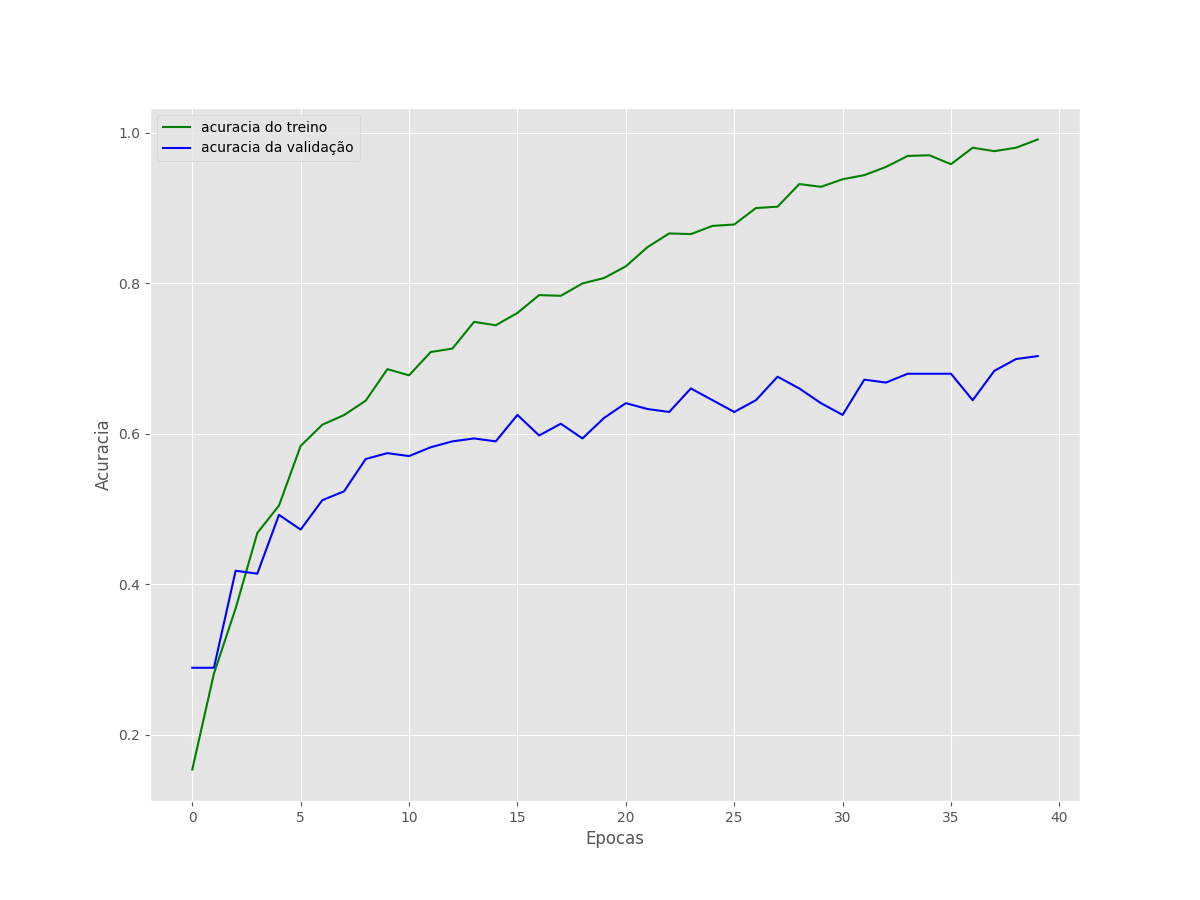
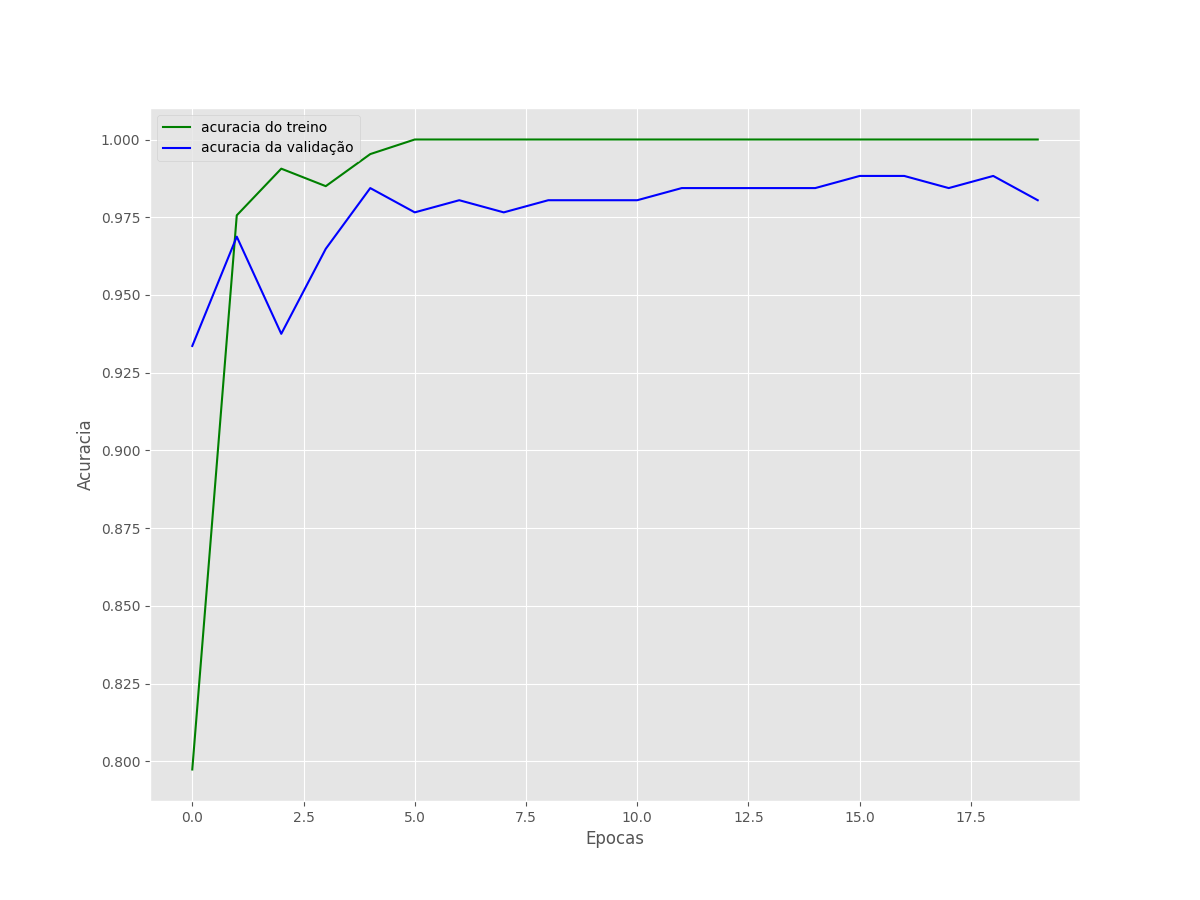
transfer learning

diff --git a/main.py b/main.py
@@ -5,24 +5,41 @@ import matplotlib
 
 # Constantes
 IMAGE_SHAPE = (224, 224)
+INPUT_SHAPE = (224, 224, 3)
 TRAINING_DATA_DIR = "input/training/training/"
 VALID_DATRA_DIR = "input/validation/validation/"
-EPOCHS = 32
+EPOCHS = 20
 BATCH_SIZE = 32
 
-def build_model(num_classes : int):
+def build_model(num_classes):
     model = tf.keras.Sequential([
-        tf.keras.layers.Conv2D(filters=8, kernel_size=(3, 3), activation='relu',
-                               input_shape=(224, 224, 3)),
-        tf.keras.layers.MaxPooling2D(pool_size=(2, 2), strides=2),
-        tf.keras.layers.Conv2D(filters=16, kernel_size=(3, 3), activation='relu'),
-        tf.keras.layers.MaxPooling2D(pool_size=(2, 2), strides=2),
-        tf.keras.layers.Conv2D(filters=32, kernel_size=(3, 3), activation="relu"),
-        tf.keras.layers.MaxPooling2D(pool_size=(2, 2), strides=2),
-        tf.keras.layers.Conv2D(filters=64, kernel_size=(3, 3), activation="relu"),
-        tf.keras.layers.MaxPooling2D(pool_size=(2, 2), strides=2),
-        tf.keras.layers.Flatten(),
-        tf.keras.layers.Dense(128, activation="relu"),
+    tf.keras.layers.Conv2D(filters=8, kernel_size=(3, 3), activation='relu', 
+                           input_shape=(224, 224, 3)),
+    tf.keras.layers.MaxPooling2D(pool_size=(2, 2), strides=2),
+    tf.keras.layers.Conv2D(filters=16, kernel_size=(3, 3), activation='relu'),
+    tf.keras.layers.MaxPooling2D(pool_size=(2, 2), strides=2),
+    tf.keras.layers.Conv2D(filters=32, kernel_size=(3, 3), activation='relu'),
+    tf.keras.layers.MaxPooling2D(pool_size=(2, 2), strides=2),
+    tf.keras.layers.Flatten(),
+    tf.keras.layers.Dense(64, activation='relu'),
+    tf.keras.layers.Dense(num_classes, activation='softmax')
+    ])
+    return model
+
+def build_model_tranfer(num_classes : int):
+    # Pegamos o modelo pré-pronto
+    model_v2_layer = tf.keras.applications.MobileNetV2(
+        input_shape=INPUT_SHAPE,
+        include_top=False,
+        weights="imagenet"
+    )
+
+    model_v2_layer.trainable = False # IMPORTANTE! Não quemos mudar os pesos da rede neural
+    print(model_v2_layer.summary())
+    model = tf.keras.Sequential([
+        model_v2_layer,
+        tf.keras.layers.GlobalAveragePooling2D(),
+        tf.keras.layers.Dense(64, activation="relu"),
         tf.keras.layers.Dense(num_classes, activation="softmax")
     ])
     return model
@@ -73,8 +90,8 @@ train_generator = datagen.flow_from_directory(TRAINING_DATA_DIR, shuffle=True, t
 
 valid_generator = datagen.flow_from_directory(VALID_DATRA_DIR, shuffle=True, target_size=IMAGE_SHAPE)
 
-model = build_model(num_classes=10)
-model.compile(optimizer=tf.keras.optimizers.Adam(learning_rate=0.0001),
+model = build_model_tranfer(num_classes=10)
+model.compile(optimizer=tf.keras.optimizers.Adam(learning_rate=0.01),
               loss=tf.keras.losses.CategoricalCrossentropy(from_logits=False),
               metrics=['accuracy']
               )
